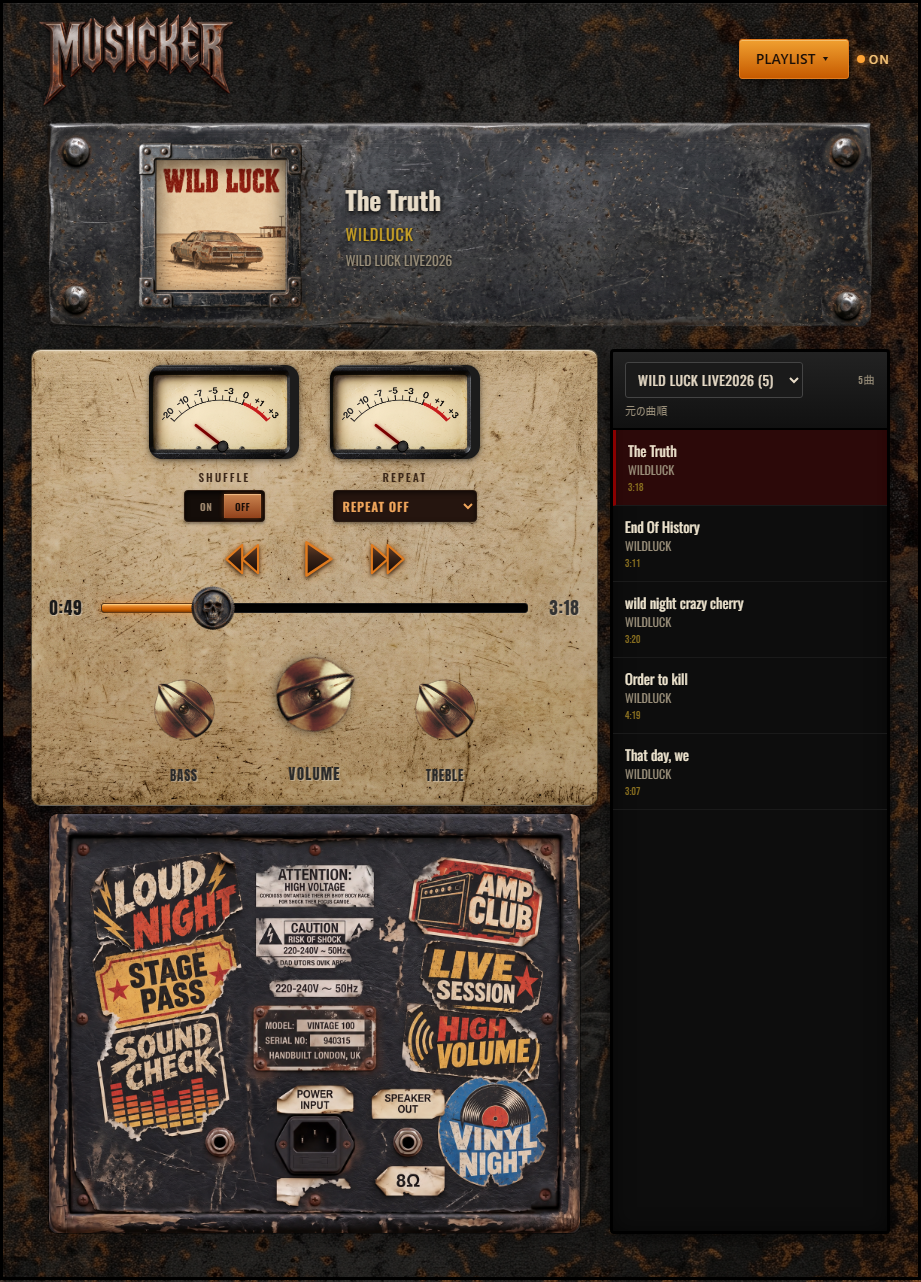
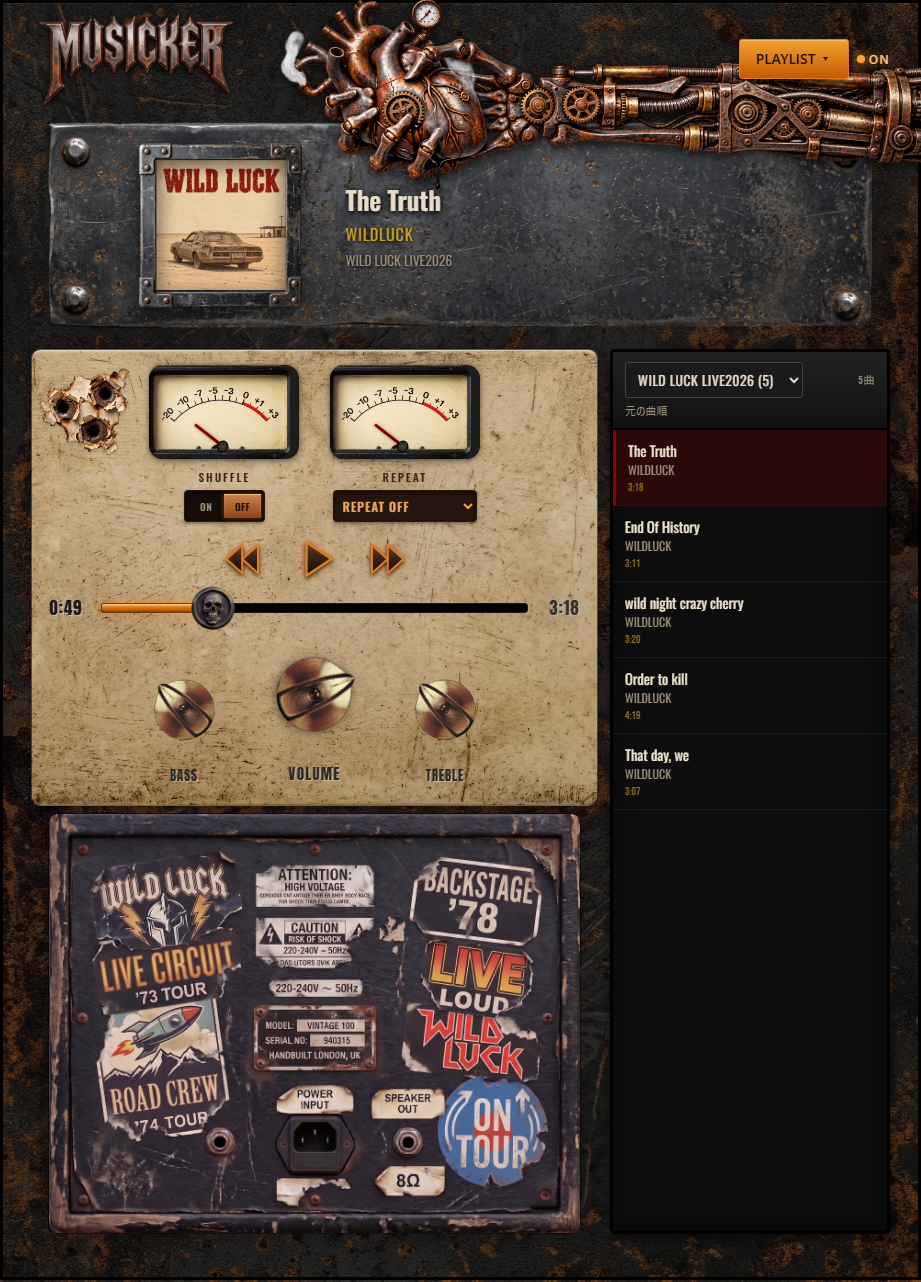
Refresh Musicker presentation and preview

diff --git a/README.md b/README.md
@@ -1,18 +1,68 @@
 # Musicker
 
-手持ちの音楽を、ヴィンテージアンプ風の画面で楽しめる無料の Windows アプリです。
+## ARE YOU FUCKIN' READY TO ROCK? 🤘
 
-![Musicker の画面。架空のバンド WILDLUCK のサンプル曲を表示](images/Musicker-preview.png)
+**Turn it up. Pick your poison. Hit PLAY.**
 
-画像は架空のバンド WILDLUCK のサンプル曲とジャケットを表示したものです。サンプル曲とジャケットは配布アプリに含まれていません。
+錆びたアンプ、暴れるメーター、馬鹿みたいにデカい音。\
+Musickerは、HR/HMを気分よく聴くために作ったWindows用音楽プレイヤーです。
 
-## ダウンロード
+小難しいことは抜き。\
+好きな音源を放り込んで、再生ボタンを叩けばそれでOK。
 
-[最新版の Musicker をダウンロード](../../releases/latest)
+**LOUDER IS BETTER.**
 
-「Releases」にある Windows 64 ビット用の `.exe` を保存して起動してください。インストールは不要です。
+![Musickerの画面。架空のバンドのサンプル曲を表示](images/Musicker-preview.png)
+
+---
+
+## WHAT THE HELL IS MUSICKER?
+
+ピカピカでスマートな音楽プレイヤーもいい。\
+でも、たまには錆びた機材と傷だらけのアンプに囲まれて音楽を聴きたい。
+
+Musickerは、手持ちの音楽をローカルで再生するための、
+HR/HMに全振りした音楽プレイヤーです。
+
+音楽フォルダやiTunesプレイリストを読み込んで、
+いつもの曲を、ちょっとだけうるさそうな見た目で楽しめます。
+
+### FEATURES
+
+- 音楽フォルダから楽曲を読み込み
+- iTunesプレイリストの読み込み
+- SHUFFLE / REPEAT 再生
+- アルバムジャケット表示
+- VOLUME ノブによる音量調整
+- HR/HMに全振りしたインターフェース
+- インストール不要
+
+### ABOUT THE KNOBS
+
+中央の **VOLUME** ノブは実際に音量を調整できます。
+
+左右のノブ？\
+**ダミーです。**
+
+回しても何も起きません。\
+ゲインも上がらないし、音も歪まない。
+
+**実際には動かないぜ。魂で動かせ。🤘**
+
+※スクリーンショットでは、創作上の架空バンドの楽曲・ジャケットをサンプルとして使用しており、これらは配布アプリには含まれていません。
+
+---
+
+## GET MUSICKER
+
+[最新版の Musicker をダウンロード](https://github.com/Geek0426/Musicker/releases/latest)
+
+「Releases」にある Windows 64 ビット用の `.exe` を保存して起動してください。\
+インストールは不要です。
 
 この版はデジタル署名がありません。Windows の保護機能が警告や実行制限を表示する場合があります。ダウンロード元を確認してから使用してください。
+
+---
 
 ## 使い方
 
@@ -20,30 +70,108 @@
 2. 「iTunesプレイリストを読み込む」または「音楽フォルダを読み込む」を選びます。
 3. 曲を選んで再生します。**SHUFFLE** と **REPEAT** で再生方法を変えられます。
 
-音楽ファイルは同梱されていません。ご自身の音楽ファイルを指定して使ってください。iTunesプレイリストを使う場合は、ライブラリの XML ファイルが必要です。
+音楽ファイルは同梱されていません。\
+ご自身の音楽ファイルを指定して使ってください。
 
-## 対応環境
-
-Windows 64 ビット
+iTunesプレイリストを使う場合は、ライブラリの XML ファイルが必要です。
 
 ---
 
-## English
+## 対応環境
 
-Musicker is a free, portable music player for 64-bit Windows with a vintage amplifier-inspired interface.
+**Windows 64 ビット**
 
-The screenshot above shows fictional WILDLUCK sample tracks and cover art. Neither the sample music nor the cover art is included in the app.
+---
 
-### Download
+**TURN IT UP. 🤘**
 
-[Download the latest release](../../releases/latest). Under **Assets**, download `Musicker-1.0.0-Windows.exe` and run it. No installation is required.
 
-This build is not digitally signed. Windows may display a security warning or restrict it from running. Check the download source before opening the file.
 
-### How to use
+
+
+
+
+# Musicker
+
+## ARE YOU FUCKIN' READY TO ROCK? 🤘
+
+**Turn it up. Pick your poison. Hit PLAY.**
+
+Rusty amps, jumping meters, and stupidly loud music.\
+Musicker is a Windows music player built for one thing: enjoying HR/HM the way it deserves.
+
+Forget the complicated stuff.\
+Load up your music, hit PLAY, and you're good to go.
+
+**LOUDER IS BETTER.**
+
+---
+
+## WHAT THE HELL IS MUSICKER?
+
+Clean, shiny, modern music players are nice.\
+But sometimes you just want to listen to music surrounded by rusty gear and beat-up amps.
+
+Musicker is a local music player built for your own music collection,
+with an interface unapologetically obsessed with HR/HM.
+
+Load a music folder or an iTunes playlist,
+pick a track, and enjoy your usual music with a slightly louder-looking interface.
+
+### FEATURES
+
+- Load tracks from your music folders
+- Import iTunes playlists
+- SHUFFLE / REPEAT playback
+- Album artwork display
+- Volume control with the VOLUME knob
+- An interface built entirely around HR/HM
+- No installation required
+
+### ABOUT THE KNOBS
+
+The **VOLUME** knob in the middle actually controls the volume.
+
+The knobs on the left and right?\
+**They're dummies.**
+
+Turn them all you want.\
+They won't add gain. They won't add distortion. They won't do a damn thing.
+
+**They don't actually work. Turn 'em with your soul. 🤘**
+
+※ The screenshot uses songs and album artwork from a fictional band as sample content. These are not included with the distributed application.
+
+---
+
+## GET MUSICKER
+
+[Download the latest version of Musicker](https://github.com/Geek0426/Musicker/releases/latest)
+
+Download the Windows 64-bit `.exe` from **Releases** and run it.\
+No installation is required.
+
+This version is not digitally signed. Windows security features may display a warning or restrict execution. Please verify the download source before running the application.
+
+---
+
+## HOW TO USE
 
 1. Open **PLAYLIST** in the upper-right corner.
-2. Choose **iTunesプレイリストを読み込む** (“Load iTunes playlist”) or **音楽フォルダを読み込む** (“Load music folder”). Some interface text is currently in Japanese.
-3. Select a song to play. Use **SHUFFLE** and **REPEAT** to control playback.
+2. Select **iTunesプレイリストを読み込む** (Load iTunes Playlist) or **音楽フォルダを読み込む** (Load Music Folder). These menu items are currently in Japanese.
+3. Select a track and play it. Use **SHUFFLE** and **REPEAT** to change the playback mode.
 
-Music files are not included. Choose your own music folder, or provide an iTunes library XML file to import playlists.
+Music files are not included.\
+Use your own local music files.
+
+To use an iTunes playlist, you will need your library XML file.
+
+---
+
+## SYSTEM REQUIREMENTS
+
+**Windows 64-bit**
+
+---
+
+**TURN IT UP. 🤘**

diff --git a/RELEASE_NOTES.md b/RELEASE_NOTES.md
@@ -27,4 +27,4 @@ Download `Musicker-1.0.0-Windows.exe` from **Assets** and run it. No installatio
 
 Features include loading an iTunes library XML file or a music folder, selecting playlists, shuffle with original-order restore, and repeat one/all/off. Some interface text is currently in Japanese. In **PLAYLIST**, **iTunesプレイリストを読み込む** means “Load iTunes playlist” and **音楽フォルダを読み込む** means “Load music folder”.
 
-No music files are included. The WILDLUCK songs and cover art in the screenshot are fictional samples shown for illustration only.
+No music files are included. The songs and cover art in the screenshot are fictional samples shown for illustration only.
